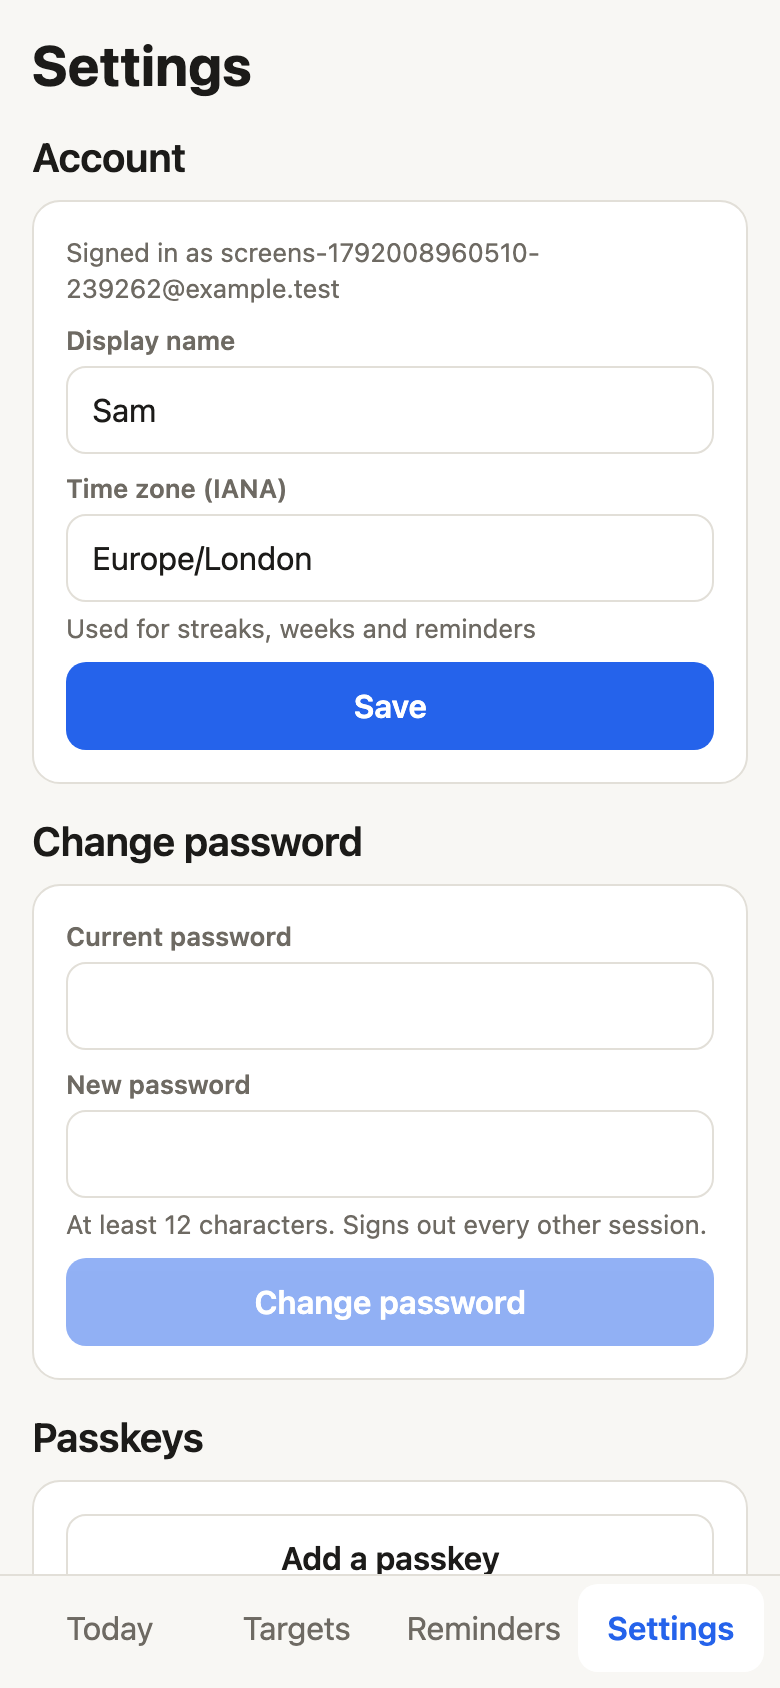
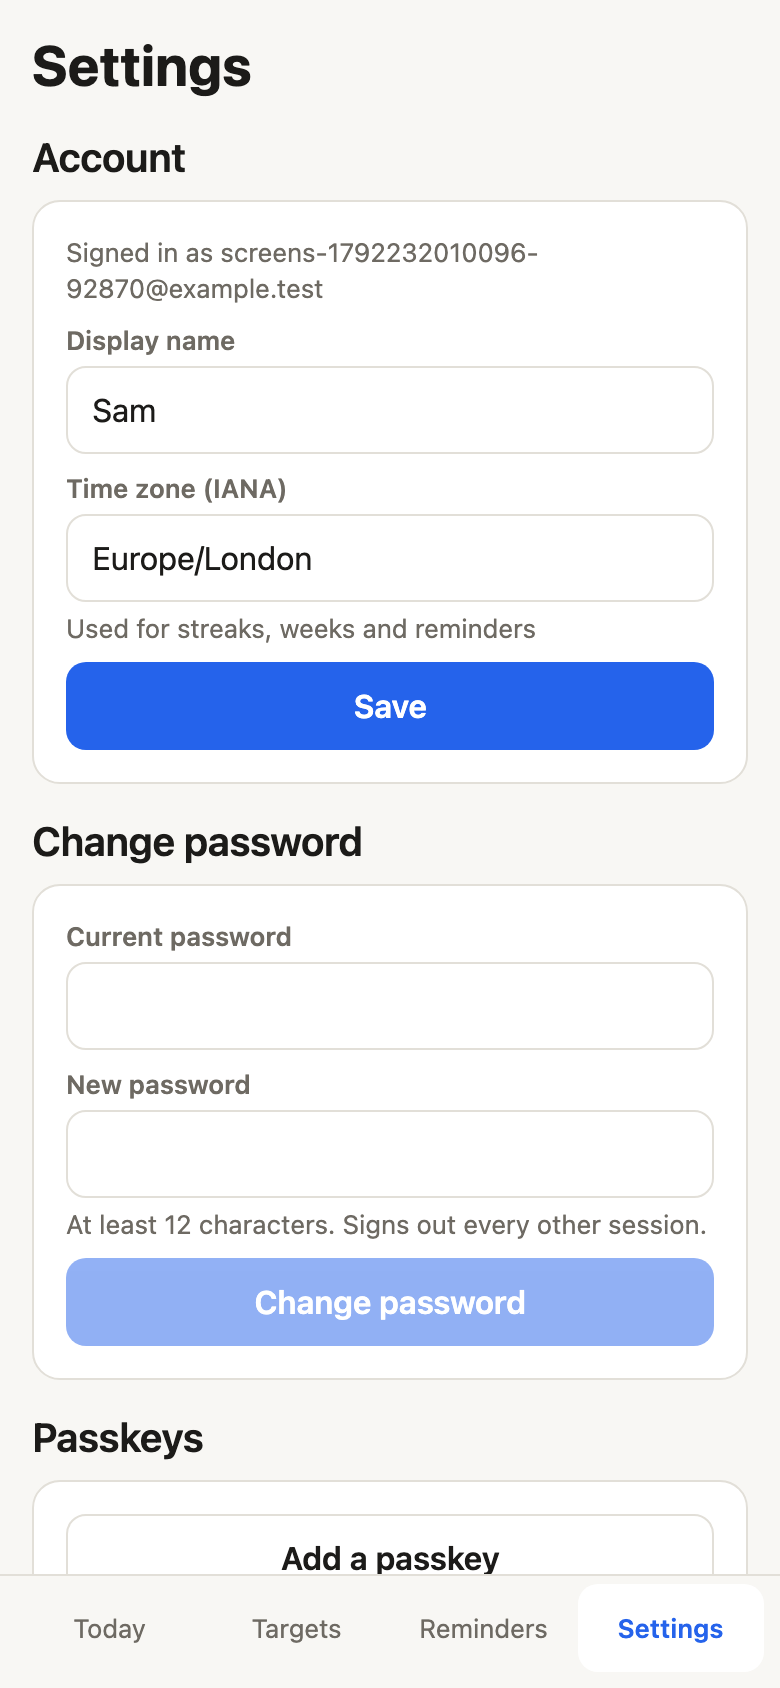
fix(mobile): native fixes found by running Maestro on iOS 27 (#11)
* fix(mobile): sign out after a reinstall (iOS keeps keychain items across installs)

* fix(mobile): keyboard-aware scroll views and single-line tab labels

* test(mobile): make the Maestro flow pass on iOS 27 (system sheet, explainer IDs, regex entry match)

* docs: record Maestro verification and native fixes

---------

diff --git a/apps/mobile/src/platform/token.native.ts b/apps/mobile/src/platform/token.native.ts
@@ -1,16 +1,36 @@
 import * as SecureStore from "expo-secure-store";
+import { kvStorage } from "./storage";
 
 const KEY = "te.session-token";
+/** Lives in MMKV, which iOS deletes with the app, unlike the keychain. */
+const INSTALL_MARKER = "te.install-marker";
 let cached: string | null | undefined;
+
+/**
+ * iOS keeps keychain items after an app is deleted, so a reinstall would come back signed in. On the first
+ * launch of a fresh install (no MMKV marker yet) drop any leftover session token.
+ */
+async function forgetSessionFromPreviousInstall(): Promise<void> {
+  if (kvStorage.getItem(INSTALL_MARKER)) return;
+  await SecureStore.deleteItemAsync(KEY);
+  kvStorage.setItem(INSTALL_MARKER, new Date().toISOString());
+}
 
 /** Native: the Better Auth session token lives in the keychain and is sent as a bearer token. */
 export async function getSessionToken(): Promise<string | null> {
-  if (cached === undefined) cached = await SecureStore.getItemAsync(KEY);
+  if (cached === undefined) {
+    await forgetSessionFromPreviousInstall();
+    cached = await SecureStore.getItemAsync(KEY);
+  }
   return cached;
 }
 
 export async function setSessionToken(token: string | null): Promise<void> {
   cached = token;
-  if (token) await SecureStore.setItemAsync(KEY, token);
-  else await SecureStore.deleteItemAsync(KEY);
+  if (token) {
+    kvStorage.setItem(INSTALL_MARKER, kvStorage.getItem(INSTALL_MARKER) ?? new Date().toISOString());
+    await SecureStore.setItemAsync(KEY, token);
+  } else {
+    await SecureStore.deleteItemAsync(KEY);
+  }
 }

diff --git a/apps/mobile/src/platform/token.test.ts b/apps/mobile/src/platform/token.test.ts
@@ -1,0 +1,35 @@
+import type * as TokenModule from "./token.native";
+
+const mockKeychain = new Map<string, string>();
+jest.mock("expo-secure-store", () => ({
+  getItemAsync: async (k: string) => mockKeychain.get(k) ?? null,
+  setItemAsync: async (k: string, v: string) => void mockKeychain.set(k, v),
+  deleteItemAsync: async (k: string) => void mockKeychain.delete(k),
+}));
+
+/** A fresh copy of the module, as after an app launch (module state such as the cached token is reset). */
+function launchApp(): typeof TokenModule {
+  let mod: typeof TokenModule | undefined;
+  jest.isolateModules(() => {
+    // require (not import): Jest evaluates it inside the isolated registry.
+    mod = require("./token.native") as typeof TokenModule;
+  });
+  if (!mod) throw new Error("module not loaded");
+  return mod;
+}
+
+beforeEach(() => {
+  mockKeychain.clear();
+  (globalThis as { mockMmkvStore?: Map<string, string> }).mockMmkvStore?.clear(); // fresh install
+});
+
+test("a session token left in the keychain by a previous install is discarded on first launch", async () => {
+  mockKeychain.set("te.session-token", "stale-token-from-deleted-app");
+  expect(await launchApp().getSessionToken()).toBeNull();
+  expect(mockKeychain.has("te.session-token")).toBe(false);
+});
+
+test("within the same install the token persists across launches", async () => {
+  await launchApp().setSessionToken("live-token");
+  expect(await launchApp().getSessionToken()).toBe("live-token");
+});

diff --git a/apps/mobile/src/ui/AppShell.tsx b/apps/mobile/src/ui/AppShell.tsx
@@ -49,9 +49,15 @@ export function NavBar({ state, navigation }: BottomTabBarProps) {
         accessibilityLabel={item.label}
         accessibilityState={{ selected: active }}
         onPress={() => navigation.navigate(item.name)}
-        className={`min-h-tap justify-center rounded-control px-4 ${wide ? "" : "flex-1 items-center"} ${active ? "bg-surface" : ""}`}
+        className={`min-h-tap justify-center rounded-control ${wide ? "px-4" : "flex-1 items-center px-1"} ${active ? "bg-surface" : ""}`}
       >
-        <Text className={`text-body ${active ? "font-semibold text-primary" : "text-muted"}`}>
+        {/* One line, shrinking slightly on narrow phones rather than wrapping ("Reminders" on a 390pt iPhone). */}
+        <Text
+          numberOfLines={1}
+          adjustsFontSizeToFit
+          minimumFontScale={0.8}
+          className={`${wide ? "text-body" : "text-caption"} ${active ? "font-semibold text-primary" : "text-muted"}`}
+        >
           {item.label}
         </Text>
       </Pressable>

diff --git a/apps/mobile/src/ui/index.tsx b/apps/mobile/src/ui/index.tsx
@@ -24,7 +24,18 @@ export function Screen({
   const inner = <View className="w-full max-w-[720px] self-center gap-4 px-gutter py-4">{children}</View>;
   return (
     <SafeAreaView className="flex-1 bg-bg" edges={["top", "left", "right"]} testID={testID}>
-      {scroll ? <ScrollView keyboardShouldPersistTaps="handled">{inner}</ScrollView> : inner}
+      {scroll ? (
+        // Keyboard-aware: iOS insets the content so fields and buttons can always scroll above the keyboard.
+        <ScrollView
+          keyboardShouldPersistTaps="handled"
+          automaticallyAdjustKeyboardInsets
+          keyboardDismissMode="interactive"
+        >
+          {inner}
+        </ScrollView>
+      ) : (
+        inner
+      )}
     </SafeAreaView>
   );
 }

diff --git a/apps/mobile/jest.setup.ts b/apps/mobile/jest.setup.ts
@@ -2,7 +2,9 @@ import type * as ReactQuery from "@tanstack/react-query";
 
 // Native modules that have no JS fallback under Jest.
 jest.mock("react-native-mmkv", () => {
-  const store = new Map<string, string>();
+  // Global so data survives jest.resetModules() (tests use that to simulate an app restart).
+  const g = globalThis as { mockMmkvStore?: Map<string, string> };
+  const store = (g.mockMmkvStore ??= new Map<string, string>());
   return {
     createMMKV: () => ({
       getString: (k: string) => store.get(k),

diff --git a/apps/mobile/app/notifications.tsx b/apps/mobile/app/notifications.tsx
@@ -29,13 +29,14 @@ export default function NotificationsPrompt() {
       </View>
       <Button
         label="Turn on notifications"
+        testID="notifications-allow"
         busy={busy}
         onPress={() => {
           setBusy(true);
           void requestPermissionAndRegister().finally(done);
         }}
       />
-      <Button label="Not now" variant="ghost" onPress={done} />
+      <Button label="Not now" variant="ghost" onPress={done} testID="notifications-skip" />
     </Screen>
   );
 }

diff --git a/docs/progress.md b/docs/progress.md
@@ -150,3 +150,15 @@ Milestone log: date, milestone, what shipped, anything deferred.
   testIDs as Playwright) and an EAS workflow (`.eas/workflows/e2e.yml`, `e2e` simulator build profile) to run it
   on EAS. **Not yet executed**: Maestro isn't installed locally (optional human task H16) and EAS needs the
   project (H7).
+
+## 2026-10-17 — Maestro flow verified on iOS 27 (native findings fixed)
+
+- Ran `.maestro/sign-in-create-log.yaml` against a Release simulator build (iPhone 18 Pro, iOS 27) and the local
+  API: sign in → create target → log entry → visible on Today. **Passes.**
+- It surfaced three native-only issues, now fixed:
+  1. iOS keeps keychain items across reinstalls, so a deleted-and-reinstalled app came back signed in; the
+     session token is now discarded on the first launch of a fresh install (unit-tested).
+  2. The keyboard covered the "Create target" button; scroll views are now keyboard-aware
+     (`automaticallyAdjustKeyboardInsets`, interactive dismiss).
+  3. The "Reminders" tab label wrapped on 390pt phones; tab labels are single-line and shrink to fit.
+- Also: test IDs on the notifications explainer, and the flow declines iOS's "Save Password?" sheet.
